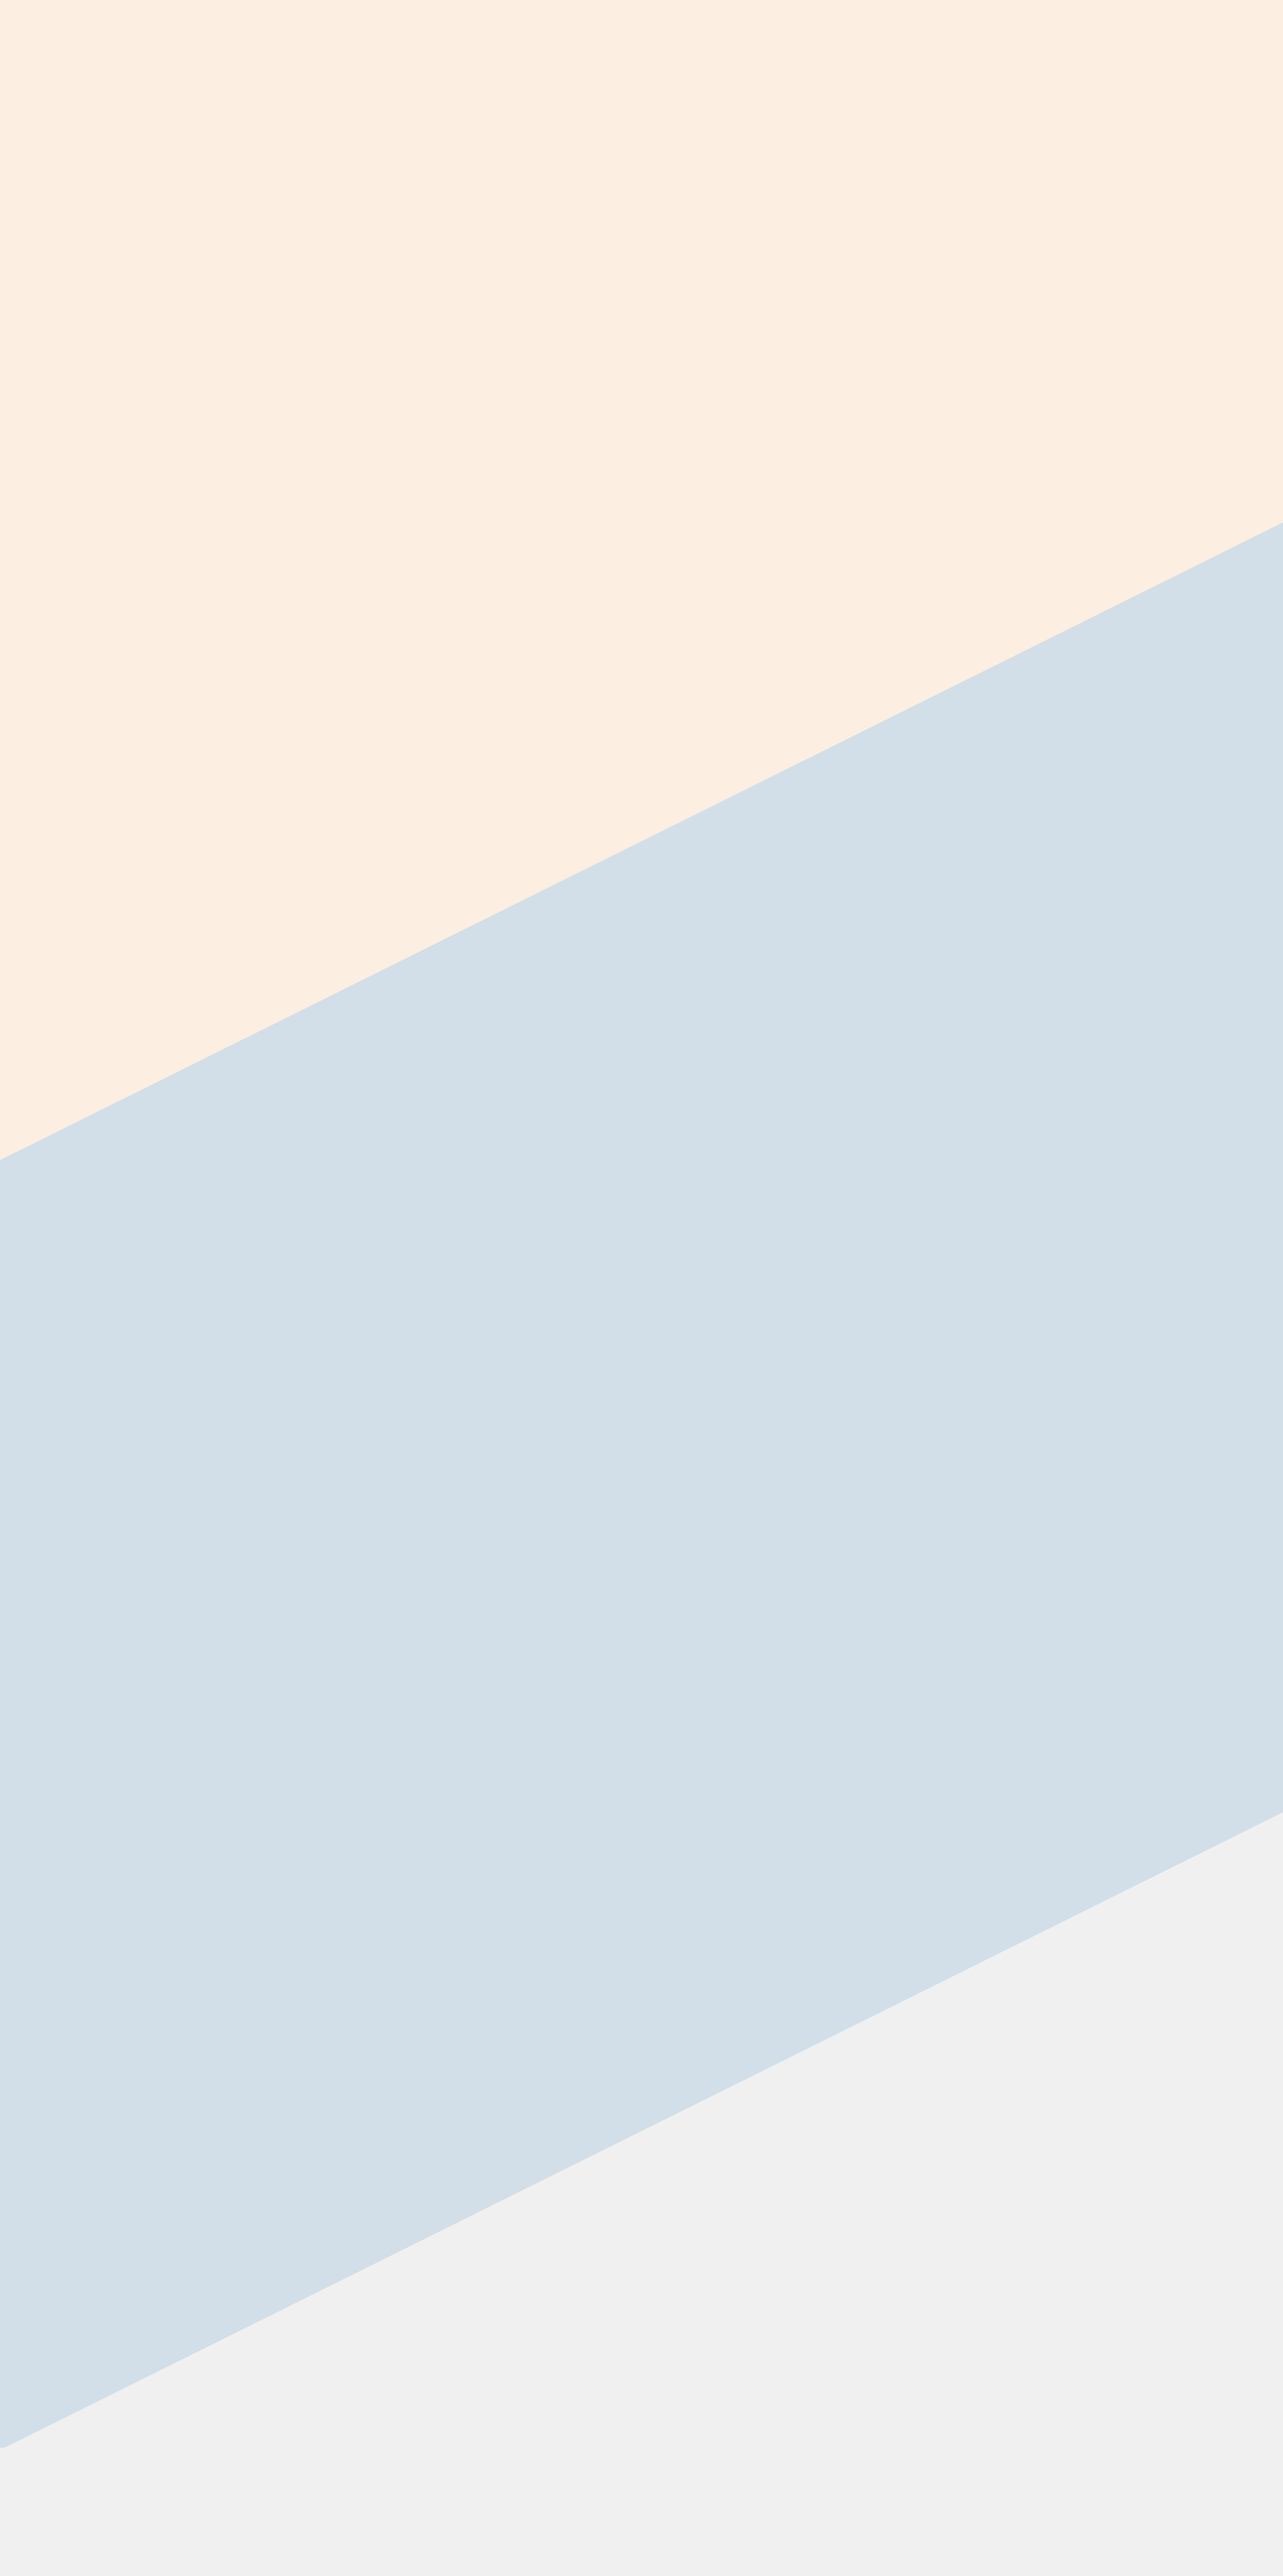
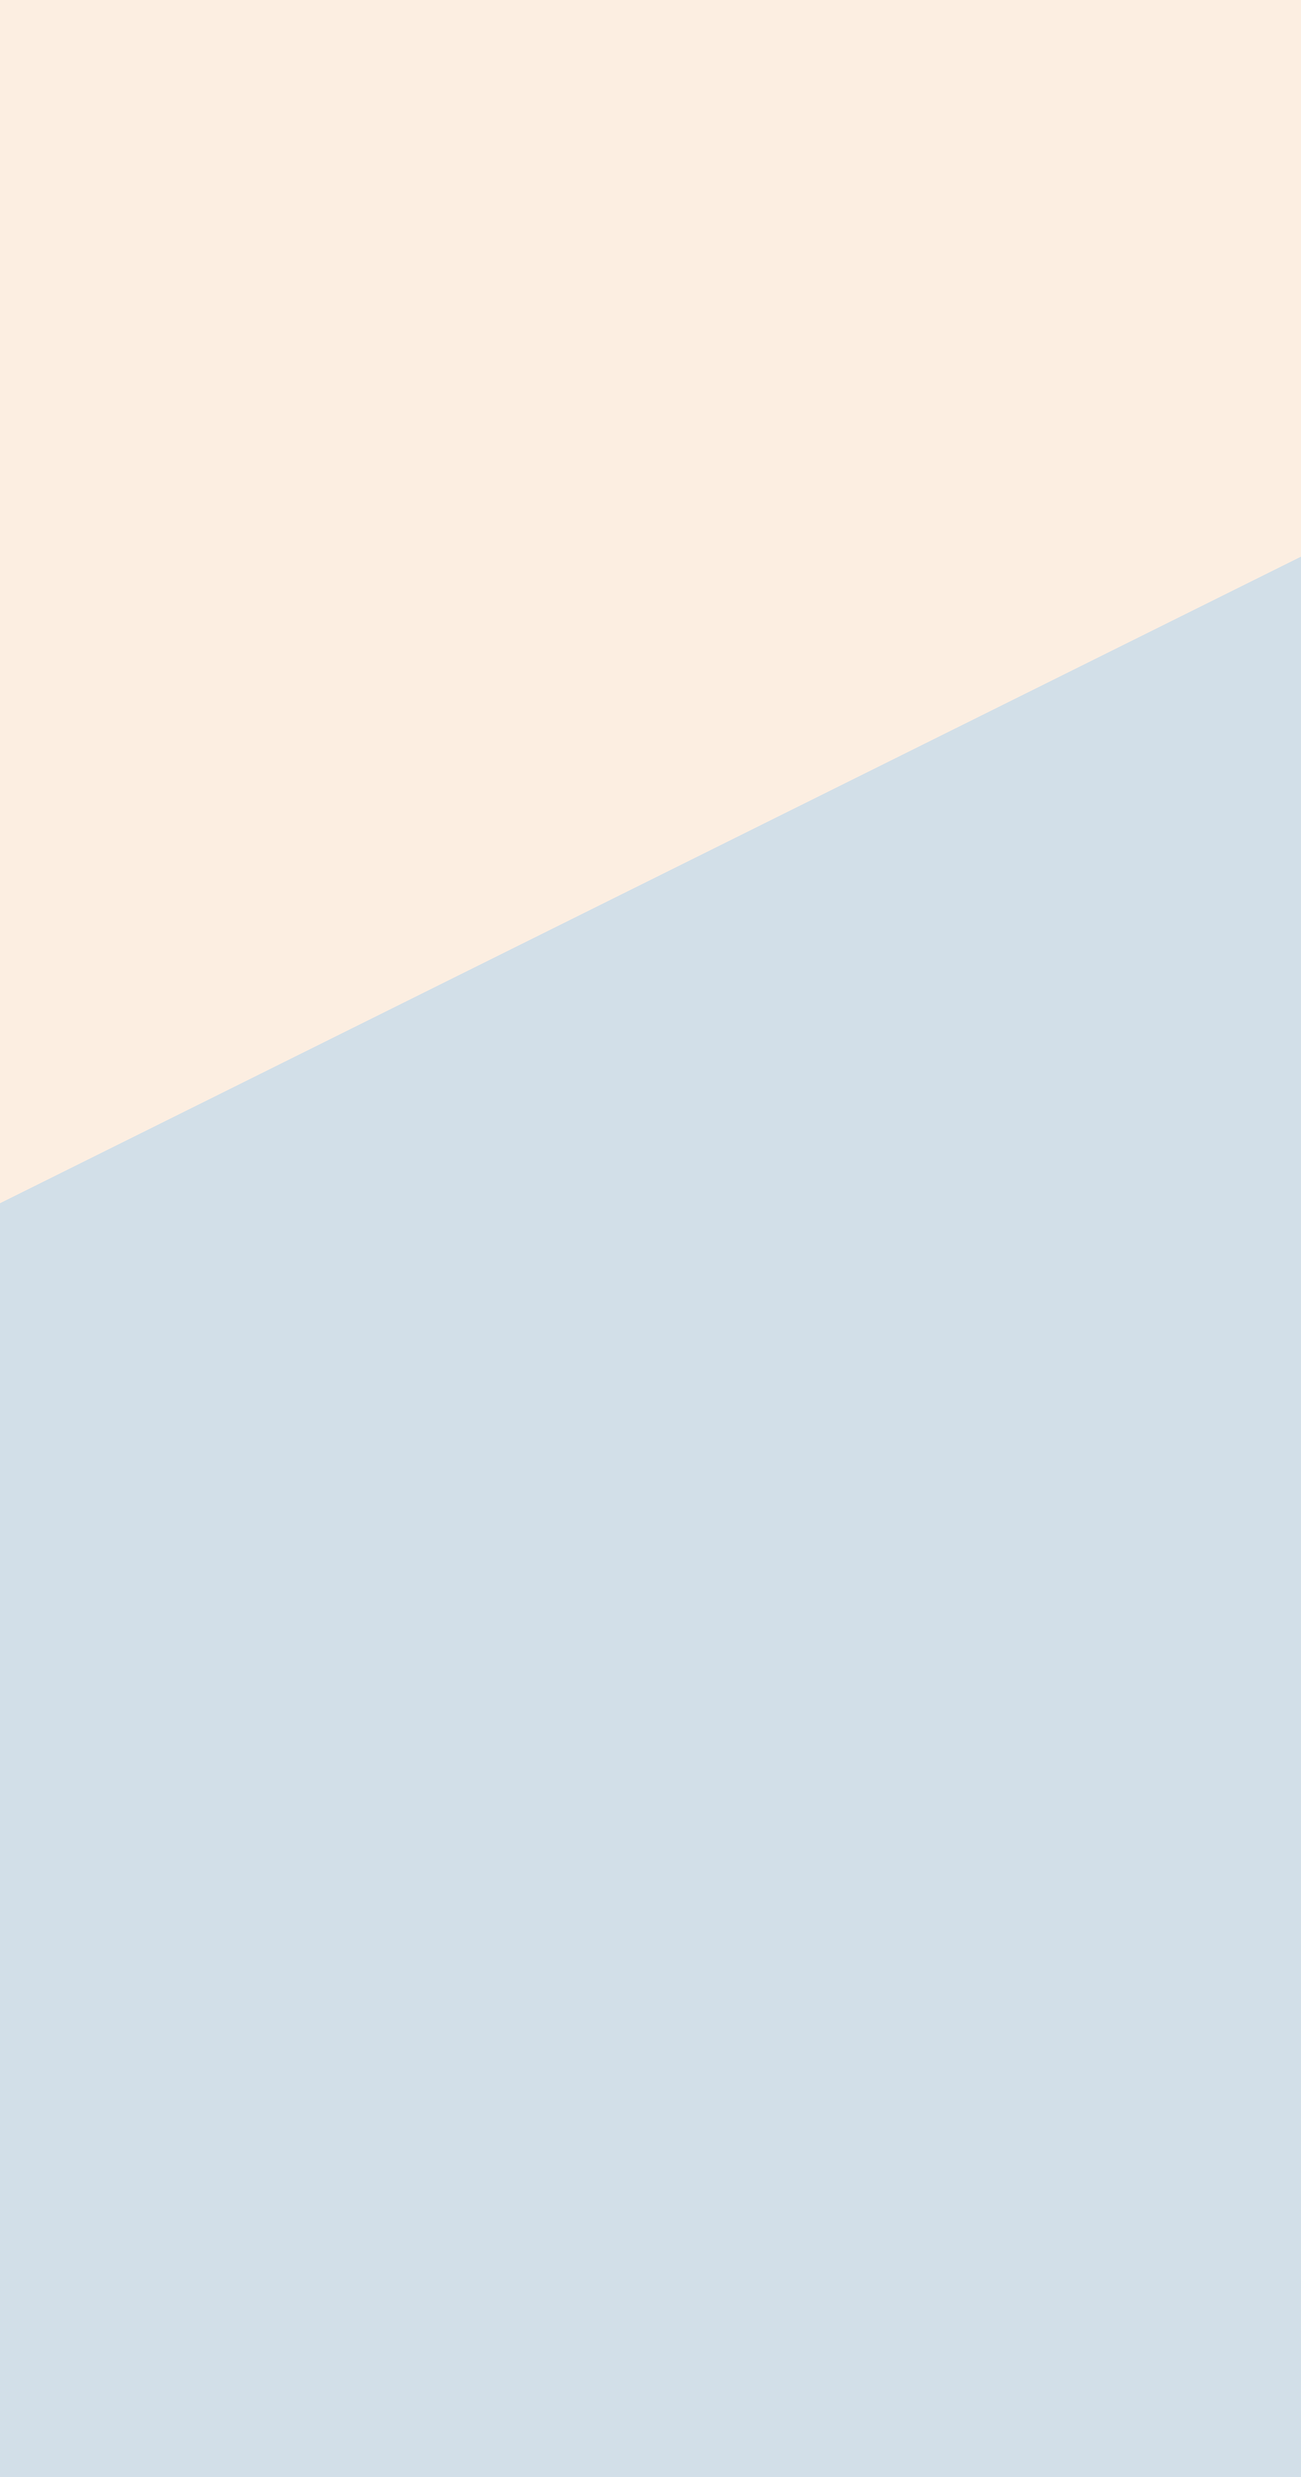
footer-bg 2880 in about, form preventDefault

Changed region(s): [[0.0, 0.6862, 1.0, 1.0], [0.0, 0.1872, 1.0, 0.4991]]

diff --git a/js/main.js b/js/main.js
@@ -212,10 +212,10 @@ $(document).ready(function () {
         if (!phoneEmail && !emptyName) {
             validForm = true;
         }
-
-        if (validForm) {
-            modalSubmit();
-        }
+        return validForm;
+//        if (validForm) {
+//            modalSubmit();
+//        }
 
     };
 
@@ -225,12 +225,16 @@ $(document).ready(function () {
         $(this).css('borderBottomColor', '#111');
     });
 
-    $('.send').on('click', function () {
-        validateForm();
-    });
+//    $('.send').on('click', function () {
+//        
+//        validateForm();
+//    });
 
-    function modalSubmit() {
-        $('#modal').submit(function () {
+       
+           $('#modal').submit(function (event) {
+               event.preventDefault();
+            var validForm = validateForm();
+                if (validForm) {
             $.ajax({
                 type: "POST",
                 url: "mail.php",
@@ -240,9 +244,9 @@ $(document).ready(function () {
                 location.reload();
             });
             return false;
+                }
 
-        });
-    }
+        }); 
 
 
 

diff --git a/css/style.css b/css/style.css
@@ -61,7 +61,7 @@
     bottom: 0;
     height: 1744px;
     width: 100%;
-    background: url(../img/footer2880.1.png) no-repeat;
+    background: url(../img/footer2880.1.png) no-repeat bottom left;
     background-color: #cfdee8;
     z-index: 0;
     zoom: 1;
@@ -769,11 +769,6 @@ div.ambianceSmall:first-child,
 .action {
     margin-top: 600px;
 }
-
-.about .footer-bg {
-    display: none;
-}
-
 
 /*********************Case.html********************/
 

diff --git a/contact.html b/contact.html
@@ -144,7 +144,7 @@
                 <input type="text" class="message" name="comment" placeholder="How can we help you?">.
             </div>
 
-            <button type="submit" class="send">Send</button>
+            <button type="submit" class="send" >Send</button>
         </form>
     </div>
     <div id="overlay"></div>
